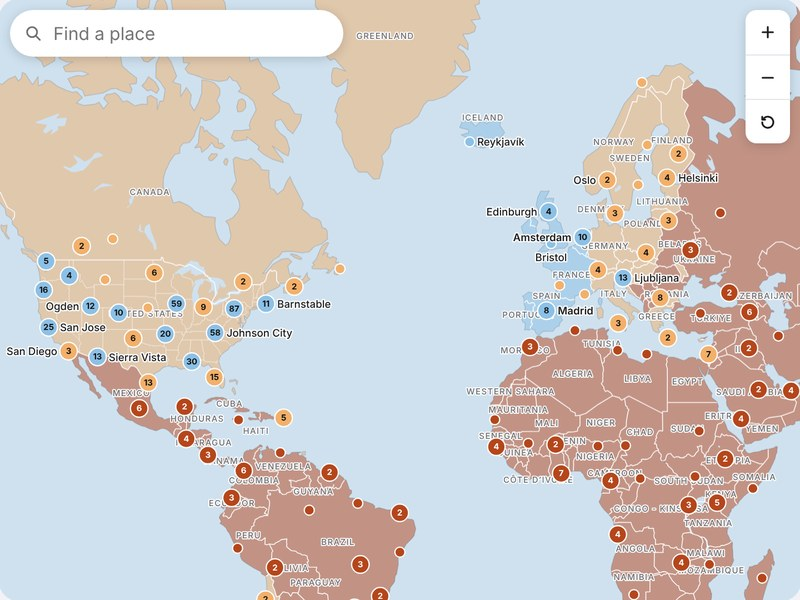
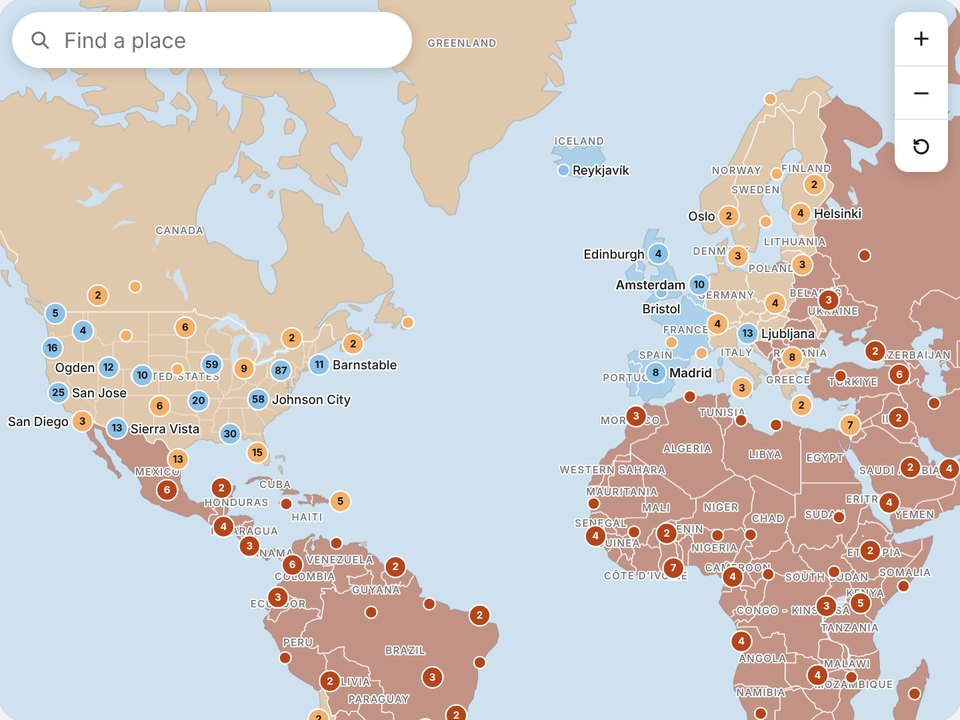
Clean up the UI: one tile style, framed screenshots, type tiles, calmer motion
Claude-Session: https://claude.ai/code/session_01KvkVvPLUPAvE7L7DfBSG61

diff --git a/style.css b/style.css
@@ -1,79 +1,66 @@
 /* Shared by every page. The home page adds class="home"; project pages set --c to their tile's color. */
-:root { --ink: #1d1d1f; --soft: #6b6b70; --paper: #fdfcf8; --c: #ffd84d; --display: Fredoka, ui-rounded, "SF Pro Rounded", system-ui, sans-serif; }
+:root {
+  --ink: #1b1b1f; --soft: #66666e; --line: #e7e5df; --paper: #fbfaf7; --c: #eeeeee;
+  --display: Fredoka, ui-rounded, "SF Pro Rounded", system-ui, sans-serif;
+  --radius: 16px;
+}
 * { box-sizing: border-box; }
-body { margin: 0; font: 17px/1.6 system-ui, -apple-system, "Segoe UI", sans-serif; color: var(--ink); background: var(--paper); }
+body { margin: 0; font: 16px/1.6 system-ui, -apple-system, "Segoe UI", sans-serif; color: var(--ink); background: var(--paper); -webkit-font-smoothing: antialiased; }
 a { color: inherit; }
-code { font-size: .9em; background: #0000000d; padding: .05em .3em; border-radius: 4px; }
+code { font-size: .9em; background: #0000000a; padding: .1em .35em; border-radius: 5px; }
 
 /* ---------- Home ---------- */
-.masthead { text-align: center; padding: 4.5rem 1.25rem 2.5rem; }
-.logo { font: 700 clamp(2.8rem, 9vw, 4.6rem)/1 var(--display); letter-spacing: -.02em; margin: 0; display: inline-block; transition: transform .3s cubic-bezier(.3,1.6,.5,1); }
-.logo:hover { transform: rotate(-4deg) scale(1.04); }
-.logo .dot { color: #e8505b; }
-.tagline { margin: .9rem 0 0; color: var(--soft); font-size: 1.05rem; }
+.masthead { max-width: 1080px; margin: 0 auto; padding: 5rem 1.5rem 3rem; text-align: center; }
+.masthead h1 { font: 600 clamp(2rem, 5.5vw, 3rem)/1.1 var(--display); letter-spacing: -.015em; margin: 0; }
+.masthead p { margin: .75rem 0 0; color: var(--soft); font-size: 1.05rem; }
 
-.grid { max-width: 1080px; margin: 0 auto; padding: 0 1.25rem; display: grid; gap: 2.2rem 1.6rem; grid-template-columns: repeat(auto-fill, minmax(230px, 1fr)); }
-.card { text-decoration: none; display: block; }
-.card .art { background: var(--bg); border-radius: 18px; aspect-ratio: 4 / 3; overflow: hidden; box-shadow: 0 2px 0 #0000001a; transition: transform .35s cubic-bezier(.3,1.6,.5,1), box-shadow .35s; }
-.card svg { width: 100%; height: 100%; display: block; }
-.card:hover .art, .card:focus-visible .art { transform: translateY(-6px) rotate(-1.2deg); box-shadow: 0 14px 24px -10px #0000004d; }
-.card:nth-child(even):hover .art { transform: translateY(-6px) rotate(1.2deg); }
-.card h2 { font: 600 1.2rem/1.25 var(--display); margin: .8rem 0 .2rem; }
-.card p { margin: 0; color: var(--soft); font-size: .93rem; line-height: 1.45; }
+.grid { max-width: 1080px; margin: 0 auto; padding: 0 1.5rem; display: grid; gap: 2.5rem 1.5rem; grid-template-columns: repeat(auto-fill, minmax(232px, 1fr)); }
+.card { text-decoration: none; display: flex; flex-direction: column; }
+.card .art {
+  aspect-ratio: 4 / 3; border-radius: var(--radius); overflow: hidden; background: var(--bg);
+  display: grid; grid-template: minmax(0, 1fr) / minmax(0, 1fr); place-items: center; padding: 8%;
+  box-shadow: inset 0 0 0 1px #0000000d;
+  transition: transform .25s ease, box-shadow .25s ease;
+}
+.card .art img { max-width: 100%; max-height: 100%; width: auto; height: auto; min-height: 0; border-radius: 8px; box-shadow: 0 1px 2px #0000001f, 0 8px 20px -8px #00000040; display: block; }
+.card .art.bleed { padding: 0; }
+.card .art.bleed img { width: 100%; height: 100%; max-width: none; max-height: none; object-fit: cover; border-radius: 0; box-shadow: none; }
+.card .art.type { grid-template: none; padding: 1rem; text-align: center; color: var(--fg); align-content: center; gap: .25rem; }
+.card .art.type b { font: 600 clamp(2rem, 4.2vw, 2.6rem)/1 var(--display); letter-spacing: -.01em; }
+.card .art.type span { font-size: .9rem; opacity: .8; }
+.card:hover .art, .card:focus-visible .art { transform: translateY(-4px); box-shadow: inset 0 0 0 1px #0000000d, 0 14px 28px -14px #00000059; }
+.card h2 { font: 600 1.1rem/1.3 var(--display); margin: .9rem 0 .25rem; }
+.card p { margin: 0; color: var(--soft); font-size: .92rem; line-height: 1.45; }
 .card:focus-visible { outline: none; }
-.card:focus-visible .art { outline: 3px solid var(--ink); outline-offset: 3px; }
+.card:focus-visible .art { outline: 2px solid var(--ink); outline-offset: 3px; }
 
-.links { display: flex; gap: .7rem; justify-content: center; flex-wrap: wrap; padding: 4rem 1.25rem 4.5rem; }
-.links a { font: 600 1rem var(--display); text-decoration: none; padding: .55rem 1.2rem; border: 2.5px solid var(--ink); border-radius: 999px; background: #fff; box-shadow: 0 3px 0 var(--ink); transition: transform .15s, box-shadow .15s; }
-.links a:hover { transform: translateY(-2px); box-shadow: 0 5px 0 var(--ink); }
-.links a:active { transform: translateY(2px); box-shadow: 0 1px 0 var(--ink); }
-
-/* Little motions, only while a tile is hovered */
-.bob, .spin, .wave line, .ring, .launch, .flame { transform-box: fill-box; transform-origin: center; }
-.card:hover .bob { animation: bob 1s ease-in-out infinite; }
-.card:hover .bob.d1 { animation-delay: .15s; }
-.card:hover .bob.d2 { animation-delay: .3s; }
-.spin { animation: spin 18s linear infinite; transform-box: view-box; transform-origin: 0 0; }
-.card:hover .spin { animation-duration: 5s; }
-.card:hover .wave line { animation: eq .6s ease-in-out infinite alternate; }
-.card:hover .wave line:nth-child(2n) { animation-delay: .2s; }
-.card:hover .wave line:nth-child(3n) { animation-delay: .35s; }
-.card:hover .ring { animation: tick 2s linear infinite; }
-.card:hover .launch { animation: launch 1.2s ease-in-out infinite; }
-.card:hover .flame { animation: flicker .15s ease-in-out infinite alternate; transform-origin: top; }
-@keyframes bob { 50% { transform: translateY(-6px) rotate(-4deg); } }
-@keyframes spin { to { transform: translateX(-140px); } }
-@keyframes eq { to { transform: scaleY(.45); } }
-@keyframes tick { to { stroke-dashoffset: 100.5; } }
-@keyframes launch { 50% { transform: translate(5px, -7px); } }
-@keyframes flicker { to { transform: scaleY(1.25); } }
-@media (prefers-reduced-motion: reduce) { *, *::before, *::after { animation: none !important; transition: none !important; } }
-
-/* ---------- Project pages ---------- */
-body:not(.home) { padding-bottom: 4rem; }
-body:not(.home) > * { max-width: 40rem; margin-left: auto; margin-right: auto; padding-left: 1.25rem; padding-right: 1.25rem; }
-body:not(.home) > p:first-child { margin: 0;  padding-top: 1.5rem; padding-bottom: 0; max-width: none; background: var(--c); }
-body:not(.home) > p:first-child a { font: 600 .95rem var(--display); text-decoration: none; display: inline-block; padding: .35rem .9rem; border: 2px solid var(--ink); border-radius: 999px; background: #fff; }
-body:not(.home) > p:first-child a:hover { transform: translateY(-1px); }
-body:not(.home) > h1 { max-width: none; background: var(--c); margin: 0 0 2rem; padding-top: 2.5rem; padding-bottom: 2.5rem; text-align: center; font: 700 clamp(2rem, 7vw, 3.2rem)/1.1 var(--display); letter-spacing: -.01em; border-bottom: 3px solid var(--ink); }
-body:not(.home) > p:first-child { text-align: center; }
-h2 { font: 600 1.35rem/1.3 var(--display); margin: 2.2rem auto .6rem; }
-p, ul { margin-top: 0; margin-bottom: 1.2rem; }
-ul { padding-left: 1.3rem; }
-li { margin-bottom: .5rem; }
-li::marker { color: #e8505b; }
-body:not(.home) a { text-decoration-thickness: 2px; text-underline-offset: 2px; }
-body.dark-c > h1 { color: #fff; }
+.links { display: flex; gap: .6rem; justify-content: center; flex-wrap: wrap; padding: 4.5rem 1.5rem 5rem; }
+.links a { font: 500 .95rem var(--display); text-decoration: none; padding: .5rem 1.15rem; border: 1px solid var(--line); border-radius: 999px; background: #fff; transition: border-color .15s, transform .15s; }
+.links a:hover { border-color: var(--ink); transform: translateY(-1px); }
 
 /* Phones: two tiles per row */
 @media (max-width: 560px) {
-  .grid { grid-template-columns: 1fr 1fr; gap: 1.6rem .9rem; }
-  .card .art { border-radius: 14px; }
-  .card h2 { font-size: 1rem; margin-top: .6rem; }
+  .masthead { padding: 3.25rem 1rem 2rem; }
+  .grid { grid-template-columns: 1fr 1fr; gap: 1.75rem .9rem; padding: 0 1rem; }
+  .card .art { --radius: 12px; padding: 6%; }
+  .card .art.bleed { padding: 0; }
+  .card .art.type b { font-size: 1.6rem; }
+  .card .art.type span { font-size: .75rem; }
+  .card h2 { font-size: .98rem; margin-top: .65rem; }
   .card p { font-size: .8rem; }
-  .masthead { padding: 3rem 1rem 2rem; }
 }
+@media (prefers-reduced-motion: reduce) { * { transition: none !important; } }
 
-/* Tiles that show a real screenshot of the project */
-.card .art.shot img { width: 100%; height: 100%; object-fit: cover; display: block; transition: transform .5s ease; }
-.card:hover .art.shot img { transform: scale(1.04); }
+/* ---------- Project pages ---------- */
+body:not(.home) { padding-bottom: 5rem; }
+body:not(.home) > * { max-width: 40rem; margin-left: auto; margin-right: auto; padding-left: 1.5rem; padding-right: 1.5rem; }
+body:not(.home) > p:first-child { max-width: none; margin: 0; padding-top: 1.25rem; background: var(--c); }
+body:not(.home) > p:first-child a { font: 500 .9rem var(--display); text-decoration: none; color: var(--soft); }
+body:not(.home) > p:first-child a:hover { color: var(--ink); }
+body:not(.home) > h1 { max-width: none; margin: 0 0 2.5rem; padding-top: 3rem; padding-bottom: 3rem; background: var(--c); text-align: center; font: 600 clamp(2rem, 6vw, 2.8rem)/1.1 var(--display); letter-spacing: -.015em; }
+h2 { font: 600 1.25rem/1.3 var(--display); margin: 2.5rem auto .6rem; }
+p, ul { margin-top: 0; margin-bottom: 1.2rem; }
+li { margin-bottom: .5rem; }
+li::marker { color: var(--soft); }
+body:not(.home) a { text-decoration-color: #0000004d; text-underline-offset: 3px; }
+body:not(.home) a:hover { text-decoration-color: currentColor; }

diff --git a/index.html b/index.html
@@ -7,95 +7,59 @@
 <meta name="description" content="Adriano Rangel-Guzman — CS @ Columbia, Class of 2029. Things I've built.">
 <link rel="preconnect" href="https://fonts.googleapis.com">
 <link rel="preconnect" href="https://fonts.gstatic.com" crossorigin>
-<link rel="stylesheet" href="https://fonts.googleapis.com/css2?family=Fredoka:wght@500;600;700&display=swap">
+<link rel="stylesheet" href="https://fonts.googleapis.com/css2?family=Fredoka:wght@500;600&display=swap">
 <link rel="stylesheet" href="style.css">
 <script defer src="atlas-facts.js"></script>
 </head>
 <body class="home">
 
 <header class="masthead">
-  <h1 class="logo">Adriano<span class="dot">.</span></h1>
-  <p class="tagline">Things I've built. CS @ Columbia, Class of 2029.</p>
+  <h1>Adriano Rangel&#8209;Guzman</h1>
+  <p>CS @ Columbia, Class of 2029. Here's what I've built.</p>
 </header>
 
 <main class="grid">
 
-  <a class="card" href="https://www.adrianorangel.org/where-should-adriano-live/" style="--bg:#ffd84d">
-    <div class="art shot"><img src="img/atlas.jpg" alt="Results page of Where should you live?, showing best-matching cities and the map" width="800" height="600" loading="lazy"></div>
+  <a class="card" href="https://www.adrianorangel.org/where-should-adriano-live/" style="--bg:#e4f0ec">
+    <div class="art"><img src="img/atlas.jpg" alt="The atlas's map, with countries and cities colored by how well they fit someone's answers" width="960" height="720"></div>
     <h2>Where should you live?</h2>
     <p>Scores <span data-fact="countries">174</span> countries and <span data-fact="cities">744</span> cities on what you care about.</p>
   </a>
 
-  <a class="card" href="https://www.adrianorangel.org/earth-now/" style="--bg:#0d1335">
-    <div class="art shot"><img src="img/earth-now.jpg" alt="The Earth as rendered by Earth Now, with live clouds" width="800" height="600" loading="lazy"></div>
+  <a class="card" href="https://www.adrianorangel.org/earth-now/" style="--bg:#000">
+    <div class="art bleed"><img src="img/earth-now.jpg" alt="The Earth as rendered by Earth Now" width="800" height="600"></div>
     <h2>Earth Now</h2>
     <p>The Earth as your eye would see it from space, right now. Works offline.</p>
   </a>
 
-  <a class="card" href="songdeck.html" style="--bg:#ff7aa8">
-    <div class="art">
-      <svg viewBox="0 0 200 150" aria-hidden="true">
-        <rect x="52" y="38" width="96" height="70" rx="10" fill="#ffd1e1" stroke="#1d1d1f" stroke-width="3" transform="rotate(-8 100 73)"/>
-        <rect x="52" y="38" width="96" height="70" rx="10" fill="#fff" stroke="#1d1d1f" stroke-width="3" transform="rotate(4 100 73)"/>
-        <g class="wave" stroke="#e23d7a" stroke-width="5" stroke-linecap="round">
-          <line x1="72" y1="66" x2="72" y2="84"/><line x1="84" y1="58" x2="84" y2="92"/><line x1="96" y1="64" x2="96" y2="86"/><line x1="108" y1="54" x2="108" y2="96"/><line x1="120" y1="62" x2="120" y2="88"/><line x1="132" y1="68" x2="132" y2="82"/>
-        </g>
-        <g class="bob" fill="#1d1d1f">
-          <path d="M158 22 L158 50 A8 7 0 1 1 152 44 L152 26 L176 20 L176 44 A8 7 0 1 1 170 38 L170 26 Z" />
-        </g>
-      </svg>
-    </div>
-    <h2>songdeck</h2>
-    <p>Turns Spotify playlists into flashcards for naming songs from their intros.</p>
-  </a>
-
-  <a class="card" href="vocab.html" style="--bg:#7fd8a6">
-    <div class="art">
-      <svg viewBox="0 0 200 150" aria-hidden="true">
-        <g stroke="#1d1d1f" stroke-width="4" stroke-linecap="round">
-          <line x1="62" y1="140" x2="82" y2="12"/><line x1="112" y1="140" x2="132" y2="12"/>
-          <line x1="66" y1="116" x2="116" y2="116"/><line x1="70" y1="88" x2="120" y2="88"/><line x1="75" y1="60" x2="125" y2="60"/><line x1="79" y1="32" x2="129" y2="32"/>
-        </g>
-        <g font-family="Fredoka, system-ui, sans-serif" font-weight="700" font-size="20" text-anchor="middle">
-          <g class="bob"><rect x="132" y="96" width="30" height="30" rx="6" fill="#fff" stroke="#1d1d1f" stroke-width="3"/><text x="147" y="118" fill="#1d1d1f">a</text></g>
-          <g class="bob d1"><rect x="140" y="58" width="30" height="30" rx="6" fill="#ffd84d" stroke="#1d1d1f" stroke-width="3"/><text x="155" y="80" fill="#1d1d1f">ñ</text></g>
-          <g class="bob d2"><rect x="30" y="40" width="30" height="30" rx="6" fill="#fff" stroke="#1d1d1f" stroke-width="3"/><text x="45" y="62" fill="#1d1d1f">Ω</text></g>
-        </g>
-      </svg>
-    </div>
-    <h2>Vocab ladders</h2>
-    <p>Leveled flashcard decks for English (CS-flavored) and Spanish words.</p>
-  </a>
-
-  <a class="card" href="ehhs.html" style="--bg:#7fb2ff">
-    <div class="art shot"><img src="img/ehhs.jpg" alt="The EHHS extension popup: a grid of school links" width="800" height="600" loading="lazy"></div>
+  <a class="card" href="ehhs.html" style="--bg:#e3ebfa">
+    <div class="art"><img src="img/ehhs.jpg" alt="The EHHS extension's popup: a grid of school links" width="572" height="916" loading="lazy"></div>
     <h2>EHHS Chrome Extension</h2>
     <p>School links and a period timer for East Hampton High School.</p>
   </a>
 
-  <a class="card" href="columbia-extension.html" style="--bg:#b9d9eb">
-    <div class="art shot"><img src="img/columbia-extension.jpg" alt="The Columbia extension popup: next class and a grid of Columbia links" width="800" height="600" loading="lazy"></div>
+  <a class="card" href="columbia-extension.html" style="--bg:#dfedf6">
+    <div class="art"><img src="img/columbia-extension.jpg" alt="The Columbia extension's popup: the next class and a grid of Columbia links" width="572" height="1024" loading="lazy"></div>
     <h2>Columbia extension</h2>
     <p>The same idea rebuilt around my class schedule, for Chrome and Firefox.</p>
   </a>
 
-  <a class="card" href="csi.html" style="--bg:#ff9d4d">
-    <div class="art">
-      <svg viewBox="0 0 200 150" aria-hidden="true">
-        <g fill="#fff" opacity=".9"><circle cx="30" cy="30" r="2"/><circle cx="170" cy="40" r="2.5"/><circle cx="150" cy="120" r="1.8"/><circle cx="40" cy="110" r="2"/></g>
-        <circle cx="160" cy="34" r="14" fill="#ffe9d1" stroke="#1d1d1f" stroke-width="3"/>
-        <g class="launch">
-          <g transform="rotate(35 100 80)">
-            <path d="M100 26 C118 44 120 74 116 100 L84 100 C80 74 82 44 100 26 Z" fill="#fff" stroke="#1d1d1f" stroke-width="3" stroke-linejoin="round"/>
-            <circle cx="100" cy="62" r="9" fill="#7fb2ff" stroke="#1d1d1f" stroke-width="3"/>
-            <path d="M84 84 L68 106 L84 102 Z M116 84 L132 106 L116 102 Z" fill="#e8505b" stroke="#1d1d1f" stroke-width="3" stroke-linejoin="round"/>
-            <path class="flame" d="M88 102 C90 116 96 122 100 130 C104 122 110 116 112 102 Z" fill="#ffd84d" stroke="#1d1d1f" stroke-width="2.5" stroke-linejoin="round"/>
-          </g>
-        </g>
-      </svg>
-    </div>
+  <a class="card" href="songdeck.html" style="--bg:#fbe4ec; --fg:#b3305f">
+    <div class="art type"><b>10 sec</b><span>to name the song</span></div>
+    <h2>songdeck</h2>
+    <p>Turns Spotify playlists into flashcards for naming songs from their intros.</p>
+  </a>
+
+  <a class="card" href="vocab.html" style="--bg:#e2f3e9; --fg:#24784b">
+    <div class="art type"><b>EN · ES</b><span>one rung at a time</span></div>
+    <h2>Vocab ladders</h2>
+    <p>Leveled flashcard decks for English (CS-flavored) and Spanish words.</p>
+  </a>
+
+  <a class="card" href="csi.html" style="--bg:#fcebdc; --fg:#b2561a">
+    <div class="art type"><b>CSI</b><span>Outreach co-director</span></div>
     <h2>Columbia Space Initiative</h2>
-    <p>Outreach co-director: space-science programs for kids.</p>
+    <p>Space-science programs for kids, run by Columbia students.</p>
   </a>
 
 </main>

diff --git a/atlas.html b/atlas.html
@@ -4,11 +4,11 @@
 <meta charset="utf-8">
 <meta name="viewport" content="width=device-width, initial-scale=1">
 <title>Where should you live? — Adriano Rangel-Guzman</title>
-<link rel="stylesheet" href="https://fonts.googleapis.com/css2?family=Fredoka:wght@500;600;700&display=swap">
+<link rel="stylesheet" href="https://fonts.googleapis.com/css2?family=Fredoka:wght@500;600&display=swap">
 <link rel="stylesheet" href="style.css">
 <script defer src="atlas-facts.js"></script>
 </head>
-<body style="--c:#ffd84d">
+<body style="--c:#e4f0ec">
 <p><a href="./">← All projects</a></p>
 
 <h1>Where should you live?</h1>

diff --git a/csi.html b/csi.html
@@ -4,10 +4,10 @@
 <meta charset="utf-8">
 <meta name="viewport" content="width=device-width, initial-scale=1">
 <title>Columbia Space Initiative — Adriano Rangel-Guzman</title>
-<link rel="stylesheet" href="https://fonts.googleapis.com/css2?family=Fredoka:wght@500;600;700&display=swap">
+<link rel="stylesheet" href="https://fonts.googleapis.com/css2?family=Fredoka:wght@500;600&display=swap">
 <link rel="stylesheet" href="style.css">
 </head>
-<body style="--c:#ff9d4d">
+<body style="--c:#fcebdc">
 <p><a href="./">← All projects</a></p>
 
 <h1>Columbia Space Initiative</h1>

diff --git a/ehhs.html b/ehhs.html
@@ -4,10 +4,10 @@
 <meta charset="utf-8">
 <meta name="viewport" content="width=device-width, initial-scale=1">
 <title>EHHS Chrome Extension — Adriano Rangel-Guzman</title>
-<link rel="stylesheet" href="https://fonts.googleapis.com/css2?family=Fredoka:wght@500;600;700&display=swap">
+<link rel="stylesheet" href="https://fonts.googleapis.com/css2?family=Fredoka:wght@500;600&display=swap">
 <link rel="stylesheet" href="style.css">
 </head>
-<body style="--c:#7fb2ff">
+<body style="--c:#e3ebfa">
 <p><a href="./">← All projects</a></p>
 
 <h1>EHHS Chrome Extension</h1>

diff --git a/columbia-extension.html b/columbia-extension.html
@@ -4,10 +4,10 @@
 <meta charset="utf-8">
 <meta name="viewport" content="width=device-width, initial-scale=1">
 <title>Columbia extension — Adriano Rangel-Guzman</title>
-<link rel="stylesheet" href="https://fonts.googleapis.com/css2?family=Fredoka:wght@500;600;700&display=swap">
+<link rel="stylesheet" href="https://fonts.googleapis.com/css2?family=Fredoka:wght@500;600&display=swap">
 <link rel="stylesheet" href="style.css">
 </head>
-<body style="--c:#b9d9eb">
+<body style="--c:#dfedf6">
 <p><a href="./">← All projects</a></p>
 
 <h1>Columbia extension</h1>

diff --git a/vocab.html b/vocab.html
@@ -4,10 +4,10 @@
 <meta charset="utf-8">
 <meta name="viewport" content="width=device-width, initial-scale=1">
 <title>Vocab ladders — Adriano Rangel-Guzman</title>
-<link rel="stylesheet" href="https://fonts.googleapis.com/css2?family=Fredoka:wght@500;600;700&display=swap">
+<link rel="stylesheet" href="https://fonts.googleapis.com/css2?family=Fredoka:wght@500;600&display=swap">
 <link rel="stylesheet" href="style.css">
 </head>
-<body style="--c:#7fd8a6">
+<body style="--c:#e2f3e9">
 <p><a href="./">← All projects</a></p>
 
 <h1>Vocab ladders</h1>

diff --git a/songdeck.html b/songdeck.html
@@ -4,10 +4,10 @@
 <meta charset="utf-8">
 <meta name="viewport" content="width=device-width, initial-scale=1">
 <title>songdeck — Adriano Rangel-Guzman</title>
-<link rel="stylesheet" href="https://fonts.googleapis.com/css2?family=Fredoka:wght@500;600;700&display=swap">
+<link rel="stylesheet" href="https://fonts.googleapis.com/css2?family=Fredoka:wght@500;600&display=swap">
 <link rel="stylesheet" href="style.css">
 </head>
-<body style="--c:#ff7aa8">
+<body style="--c:#fbe4ec">
 <p><a href="./">← All projects</a></p>
 
 <h1>songdeck</h1>

diff --git a/README.md b/README.md
@@ -27,7 +27,7 @@ The atlas publishes its own counts with each release, in [`data/facts.json`](htt
 ## Adding a project
 
 1. Copy one of the project pages, such as `songdeck.html`, and rewrite it. Keep the same three parts: what it is, why I made it, and how it works or what I learned.
-2. Add a tile for it in `index.html`: copy a `<a class="card">`, pick a background color for `--bg`, put a real 800×600 screenshot of the project in `img/` (or, until there is one, a small SVG drawing, 200×150), and use the same color as `--c` on the project page's `<body>`. If the project has something working online, the name links to that and a second link, "How it was made", goes to its page here. Otherwise the name links to its page here.
+2. Add a tile for it in `index.html`: copy a `<a class="card">`, put a real screenshot of the project in `img/` (or, until there is one, a short line of large text, like the songdeck tile), pick a soft background color for `--bg`, and use the same color as `--c` on the project page's `<body>`. If the project has something working online, the name links to that and a second link, "How it was made", goes to its page here. Otherwise the name links to its page here.
 3. Commit and push to `main`. GitHub Pages updates in about a minute.
 
 No build step. Open any page in a browser to preview it.
